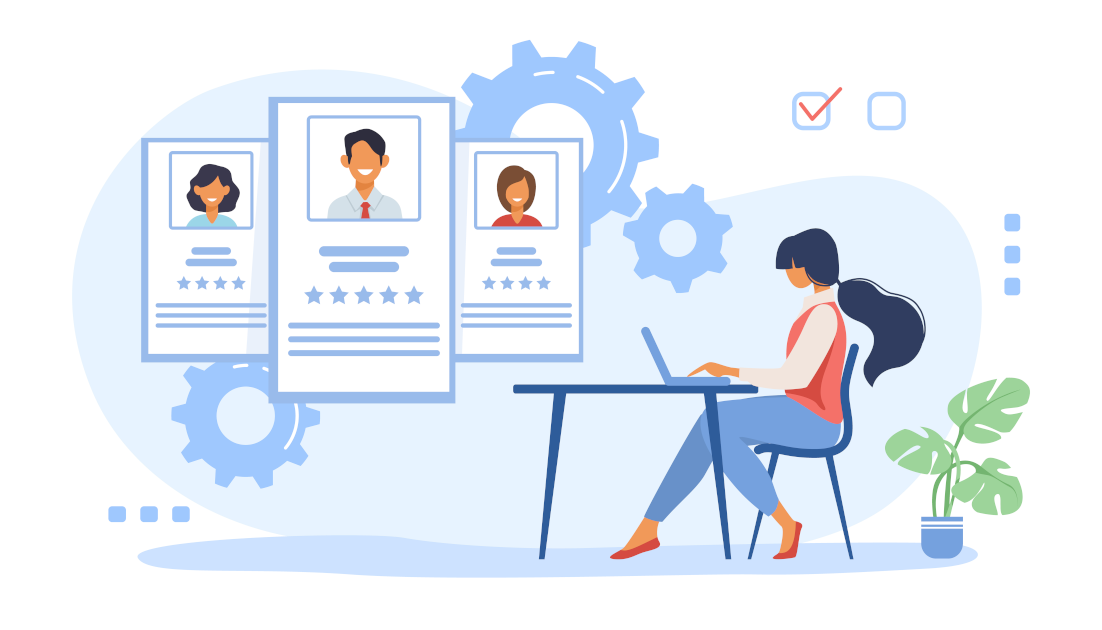
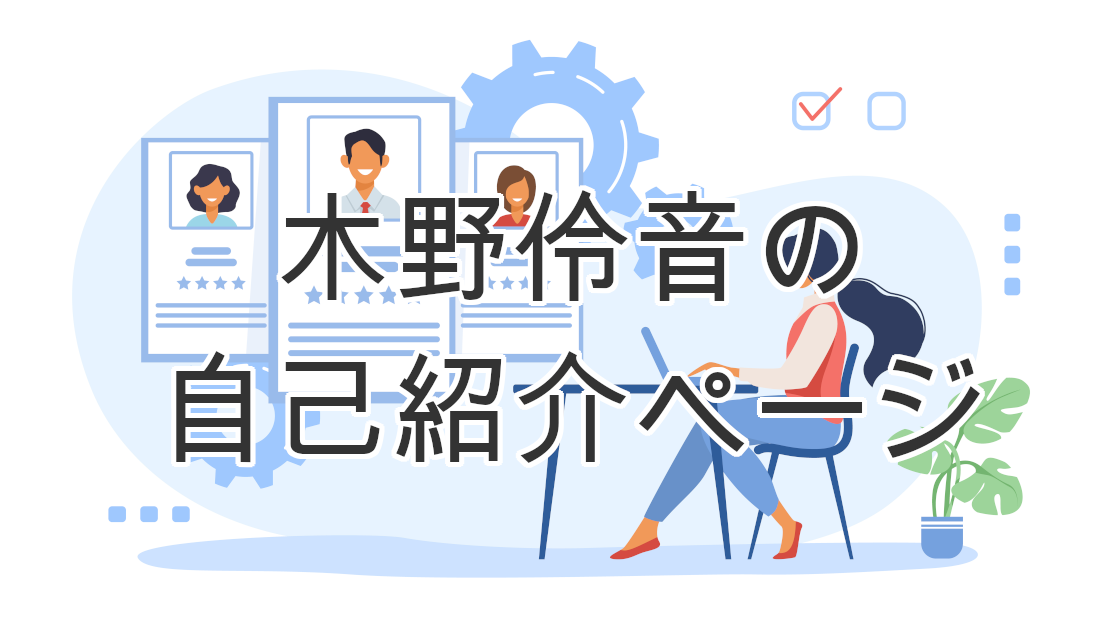
ogp画像を設定

Changed region(s): [[0.1543, 0.5429, 0.8947, 0.754], [0.2468, 0.3016, 0.8022, 0.4825]]

diff --git a/pages/_app.tsx b/pages/_app.tsx
@@ -24,7 +24,7 @@ const MyApp = ({ Component, pageProps }: AppProps) => {
           url: 'https://self-introduction-page.vercel.app/',
           images: [
             {
-              url: '/logo_white.png',
+              url: 'https://self-introduction-page.vercel.app/ogp/ogp.png',
               width: 1200,
               height: 630,
               alt: 'self-introduction/ogp画像',
